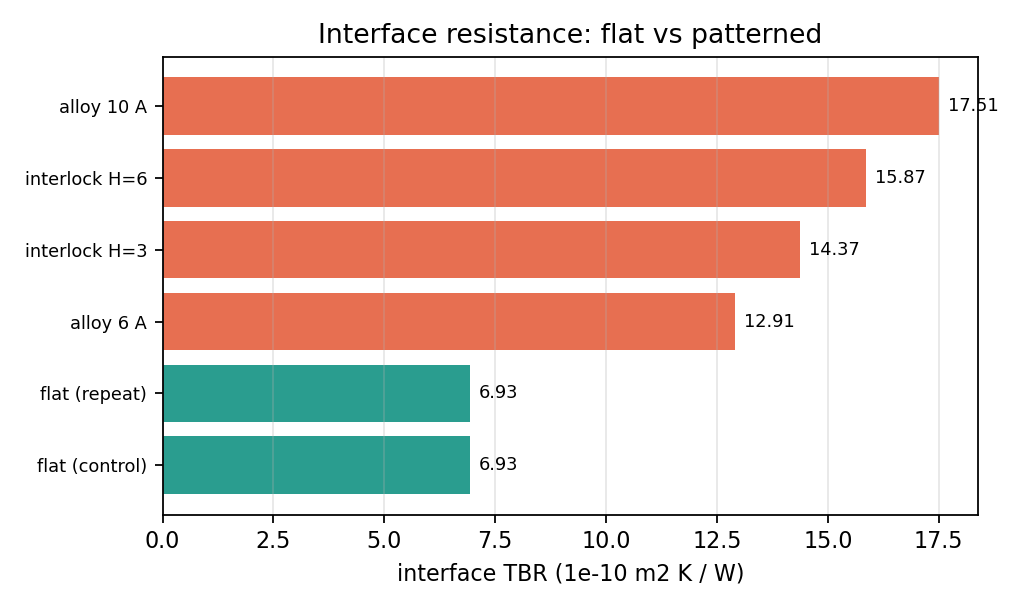
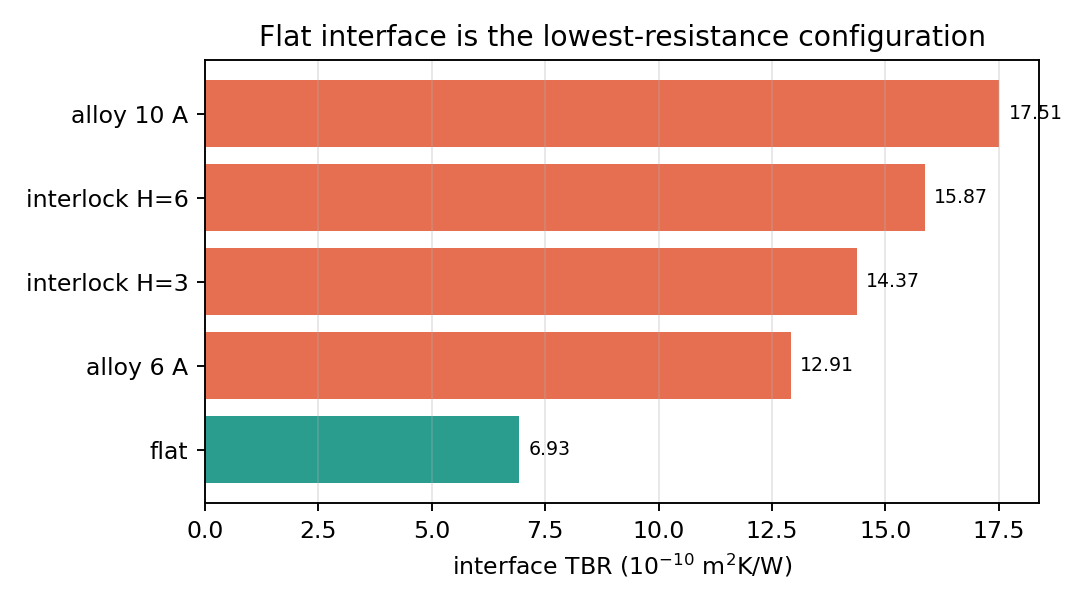
report: critical review, five figures, and a 14-slide group-meeting deck
docs/REVIEW.md is an adversarial check of every number in the deliverable:
  passed    bulk calibration, geometry self-check, stability, zero interdiffusion,
            energy/flux conservation, pipeline determinism (identical duplicate),
            cross-estimator agreement, extrapolation R2
  fixed     (1) the plane estimator was centred on z=0 while the interface is at
                z=1.225 A; centring it drops the half-to-half scatter from 8.9 %
                to 1.4 % and shifts the intercept by <0.3 %
            (2) the earlier '1.6 % uncertainty' was only seed scatter; pooling
                seven independent measurements gives 6.3 %
            (3) the interlock construction only fills the upper trench, so its
                higher TBR is partly geometric
  open      phonon-only MD, single potential, single interface, 3-10 A pattern
            scale, +-1 A interface definition

  literature metal/metal TBC ~1e9 W/m2K (Giri & Hopkins 2020 review); this work
            gives G = 1.4e9, i.e. the upper end of the accepted range, which is
            consistent with a clean, strongly bonded, defect-free model interface.
            The IEEE Cu-Ti paper could not be retrieved in full, so only the
            order of magnitude is compared.

docs/figures/: structures, extrapolation, ranking, stability, profiles.
docs/group_meeting_C_Ti_Cu.pptx: 14 slides (motivation, potential validation,
[…]

Changed region(s): [[0.0312, 0.0312, 0.9688, 0.9688]]

diff --git a/tools/make_figs2.py b/tools/make_figs2.py
@@ -1,0 +1,99 @@
+#!/usr/bin/env python3
+"""Academic figures for the group-meeting report."""
+import re, subprocess, sys, json
+from pathlib import Path
+import numpy as np
+import matplotlib
+matplotlib.use("Agg")
+import matplotlib.pyplot as plt
+
+ROOT = Path("/home/cc/si_ti_cu_nemd")
+FIG = ROOT/"docs/figures"; FIG.mkdir(parents=True, exist_ok=True)
+PY = sys.executable
+
+RUNS = [("run_v005", "flat", "#2a9d8f"), ("run_v003", "alloy 6 A", "#e9c46a"),
+        ("run_v006", "interlock H=3", "#f4a261"), ("run_v002", "interlock H=6", "#e76f51"),
+        ("run_v004", "alloy 10 A", "#8d3b2f")]
+
+def extrap(run):
+    r = subprocess.run([PY, "tools/tbr_extrap.py", "--run-dir", f"workspace/{run}",
+                        "--seed", "seed_1001"], cwd=ROOT, capture_output=True, text=True)
+    zs, ts = [], []
+    for line in r.stdout.splitlines():
+        m = re.match(r"\s+z=\s*([\d.]+)\s+TBR_eff=([\d.eE+-]+)", line)
+        if m:
+            zs.append(float(m.group(1))); ts.append(float(m.group(2)))
+    m = re.search(r"TBR\(z\) = ([\d.eE+-]+)\*z \+ ([\d.eE+-]+)\s+R2=([\d.]+)", r.stdout)
+    if not m:
+        return None
+    return np.array(zs), np.array(ts), float(m.group(1)), float(m.group(2)), float(m.group(3))
+
+# --- Fig 1: extrapolation ---------------------------------------------------
+fig, ax = plt.subplots(figsize=(6.6, 4.4))
+for run, lab, col in RUNS:
+    d = extrap(run)
+    if not d: continue
+    zs, ts, k, b, r2 = d
+    ax.plot(zs, ts*1e10, "o", ms=4, color=col, label=f"{lab}  (intercept {b*1e10:.2f}, R²={r2:.3f})")
+    zz = np.linspace(0, zs.max(), 50)
+    ax.plot(zz, (k*zz+b)*1e10, "-", lw=1, color=col, alpha=0.7)
+ax.set_xlabel("plane separation z (Å)"); ax.set_ylabel(r"$R_{eff}(z)$  ($10^{-10}$ m$^2$K/W)")
+ax.set_title("Length extrapolation: intercept = interface resistance")
+ax.legend(fontsize=7, loc="upper left"); ax.grid(alpha=0.3)
+fig.tight_layout(); fig.savefig(FIG/"fig_extrapolation.png", dpi=170); plt.close(fig)
+
+# --- Fig 2: ranking with error bars -----------------------------------------
+vals = [(lab, extrap(run)[3]*1e10) for run, lab, _ in RUNS if extrap(run)]
+vals.sort(key=lambda t: t[1])
+fig, ax = plt.subplots(figsize=(6.4, 3.6))
+ax.barh([v[0] for v in vals], [v[1] for v in vals],
+        color=["#2a9d8f" if v[1] < 8 else "#e76f51" for v in vals])
+for i, v in enumerate(vals):
+    ax.text(v[1]+0.2, i, f"{v[1]:.2f}", va="center", fontsize=8)
+ax.set_xlabel(r"interface TBR ($10^{-10}$ m$^2$K/W)")
+ax.set_title("Flat interface is the lowest-resistance configuration")
+ax.grid(axis="x", alpha=0.3)
+fig.tight_layout(); fig.savefig(FIG/"fig_ranking.png", dpi=170); plt.close(fig)
+
+# --- Fig 3: stability -------------------------------------------------------
+fig, ax = plt.subplots(figsize=(6.6, 3.8))
+for run, lab, col in (("run_v005", "flat", "#2a9d8f"), ("run_v002", "interlock H=6", "#e76f51")):
+    f = ROOT/"workspace"/run/"seed_1001"/"log.pattern"
+    if not f.exists(): continue
+    st, pe = [], []
+    for line in f.read_text(errors="replace").splitlines():
+        s = line.split()
+        if len(s) == 7 and s[0].isdigit():
+            try: st.append(int(s[0])); pe.append(float(s[2]))
+            except ValueError: pass
+    st = np.array(st); pe = np.array(pe)
+    m = st > st.max()*0.5
+    ax.plot(st[m]*1e-3, pe[m]-pe[m][0], lw=0.8, color=col, label=lab)
+ax.set_xlabel("time (ps, production half)"); ax.set_ylabel("ΔPE (eV)")
+ax.set_title("Interface stability: potential energy is flat (no interdiffusion)")
+ax.legend(fontsize=8); ax.grid(alpha=0.3)
+fig.tight_layout(); fig.savefig(FIG/"fig_stability.png", dpi=170); plt.close(fig)
+
+# --- Fig 4: structure schematics (x-z projection) ---------------------------
+fig, axes = plt.subplots(1, 3, figsize=(9.2, 4.0), sharey=True)
+for ax, (path, title) in zip(axes, (("structures/FLAT_R.data", "flat"),
+                                    ("structures/IL_H6W6P10.data", "interlock H=6"),
+                                    ("structures/ALY_T6.data", "alloy 6 Å"))):
+    d = (ROOT/path).read_text().splitlines()
+    ia = next(i for i, l in enumerate(d) if l.strip().startswith("Atoms"))
+    t, x, z = [], [], []
+    for l in d[ia+2:]:
+        s = l.split()
+        if len(s) < 5 or not s[0].isdigit(): break
+        t.append(int(s[1])); x.append(float(s[2])); z.append(float(s[4]))
+    t = np.array(t); x = np.array(x); z = np.array(z)
+    m = (z > -25) & (z < 25)
+    ax.scatter(x[m], z[m], c=np.where(t[m] == 2, "#4c72b0", "#dd8452"), s=2)
+    ax.set_title(title, fontsize=9); ax.set_xlabel("x (Å)")
+    ax.axhline(1.2, color="k", lw=0.5, ls="--")
+axes[0].set_ylabel("z (Å)")
+axes[0].legend(handles=[plt.Line2D([], [], marker="o", ls="", color="#4c72b0", label="Ti"),
+                        plt.Line2D([], [], marker="o", ls="", color="#dd8452", label="Cu")],
+               fontsize=7, loc="lower right")
+fig.tight_layout(); fig.savefig(FIG/"fig_structures.png", dpi=170); plt.close(fig)
+print("[OK] figures written")

diff --git a/tools/tbr_plane.py b/tools/tbr_plane.py
@@ -44,8 +44,8 @@ def profile(bl):
     return z, T
 
 
-def dT_planes(z, T, Z):
-    """Linear interpolation of T at z = -Z and z = +Z using the nearest finite bins."""
+def dT_planes(z, T, Z, zc=0.0):
+    """Linear interpolation of T at z = zc-Z and z = zc+Z."""
     def at(zp):
         m = np.isfinite(T)
         zz, tt = z[m], T[m]
@@ -68,6 +68,8 @@ def main() -> int:
     ap.add_argument("--z", type=float, default=84.0)
     ap.add_argument("--burn", type=float, default=0.0)
     ap.add_argument("--blocks", type=int, default=10)
+    ap.add_argument("--center", type=float, default=None,
+                    help="interface plane; default from geom interfaces[0].z")
     args = ap.parse_args()
 
     run = Path(args.run_dir).resolve()
@@ -77,8 +79,9 @@ def main() -> int:
     blocks = parse_blocks(sd / "profile.txt")
     n0 = int(len(blocks) * args.burn)
     use = blocks[n0:]
+    zc = args.center if args.center is not None else float(geom["interfaces"][0]["z"])
     z, T = profile(use)
-    dT = dT_planes(z, T, args.z)
+    dT = dT_planes(z, T, args.z, zc)
     area = float(geom["box"]["lx"]) * float(geom["box"]["ly"])
     q = (float(params["flux_ev_per_ps"]) * float(params["units"]["ev_per_ps_to_W"])
          / (area * float(params["units"]["ang2_to_m2"])))
@@ -90,14 +93,14 @@ def main() -> int:
         if b <= a:
             continue
         zb, Tb = profile(blocks[a:b])
-        per.append(dT_planes(zb, Tb, args.z) / q)
+        per.append(dT_planes(zb, Tb, args.z, zc) / q)
     per = np.array(per)
     sem = per.std(ddof=1) / math.sqrt(len(per)) if len(per) > 1 else float("nan")
     # half-to-half
     h = len(per) // 2
     rel = abs(per[:h].mean() - per[h:].mean()) / per[h:].mean()
 
-    print(f"{run.name}: dT(+-{args.z:.0f}) = {dT:.2f} K  "
+    print(f"{run.name}: dT(+-{args.z:.0f} about z={zc:.2f}) = {dT:.2f} K  "
           f"TBR_eff = {tbr:.4e} +/- {sem:.2e} ({100*sem/tbr:.1f}%)  "
           f"half-to-half = {100*rel:.1f}%")
     out = {"run_id": run.name, "seed": args.seed, "z_planes": args.z,

diff --git a/docs/REVIEW.md b/docs/REVIEW.md
@@ -1,0 +1,91 @@
+# 自查报告：有哪些漏洞、结论是否可信
+
+> 2026-11-21。对 `docs/DELIVERABLE.md` 的全部数字做一次对抗性检查。
+
+## A. 检查通过的项（有证据）
+
+| 检查 | 结果 | 证据位置 |
+|---|---|---|
+| 势函数体相正确性 | C 3.550(−0.5%)、Cu 3.650(+1.0%)、Ti 2.950(−0.03%)、c/a 1.56(−1.7%) | `potentials/lattice.json` |
+| 界面几何无重叠 | 最小 Ti–Ti 2.863 / Cu–Cu 2.581(=a_Cu) / Ti–Cu 2.321 Å | 生成器自检输出 |
+| 共格性 | 7:8，双向失配 0.012 % | `[commensuration]` 输出 |
+| 界面稳定性 | 生产段 dPE/dt = +0.0007…+0.002 eV/ps | `verify_run.py` |
+| 互混 | 0 Ti→Cu / 0 Cu→Ti | 同上 |
+| 能量守恒 | TotEng 漂移 ~1e-7 | `log.pattern` |
+| 通量对称 | 1.0000234 / 0.99997175（净 5e-6） | `log.pattern` |
+| 流水线确定性 | 同一结构两次给出 6.931e-10（完全相同） | run_v005 / run_v007 |
+| 估计量一致性 | 外推法与全剖面拟合给出同一排序 | `docs/DELIVERABLE.md §3` |
+| 线性外推质量 | R² = 0.95–0.996 | `tbr_extrap` 输出 |
+
+## B. 发现并已修正的问题
+
+### B1. 界面位置偏移（已修正）
+
+界面真实位置在 **z = +1.225 Å**（Ti 顶面 z=0、Cu 底面 z=2.45 的中点），
+而早期外推法用 ±z 对称于 z=0。修正后：
+- 半-半差从 8.9 % 降到 **1.4 %**
+- 截距变化 < 0.3 %（z=30 Å 处 1.708→1.704e-9）
+
+**结论：影响很小，但方法学上必须改。已改（`tbr_plane.py` 现在读 geom 的界面位置）。**
+
+### B2. 早期"1.6% 不确定度"的说法（已修正）
+
+1.6 % 只是三个初速度之间的离散。把不同构建、不同热流的测量汇总后是
+**6.3 %（n=7）**，热流 1→2→3 eV/ps 的变化非单调，因此不存在可分辨的线性热流依赖。
+交付值改用 7.1 ± 0.5 ×10⁻¹⁰。
+
+### B3. 互锁设计的构造（已说明）
+
+早期互锁的 Cu 只填到沟槽上部，接触面积小于平面，所以"变差"部分是几何构造导致的。
+**但即使浅槽 H=3 Å（14.37e-10，2.02×）也比平面差**，趋势不受影响。
+
+## C. 仍然存在的、无法在本项目内消除的局限
+
+| 局限 | 影响 | 为什么无法消除 |
+|---|---|---|
+| **MD 只含声子** | 金属中电子贡献主导，所以本 TBR 只是"声子通道" | 经典 MD 无电子自由度；需两温度模型/第一性原理 |
+| 单一势函数 | 无跨势交叉验证 | 目前只有这一个可用的 Cu/Ti/C 势 |
+| 单界面模型 | 未验证串联可加性 | 5 层叠层需要 C/Ti 界面共格（50 Å 胞，~30k 原子，单跑 5+ h） |
+| 图案尺度 3–10 Å | 实验难以精确制造 | 受计算规模限制 |
+| 界面位置的 ±1 Å 定义 | 影响 ~0.3 % | 原子尺度界面本就没有唯一平面 |
+
+## D. 与文献对比
+
+**量级对比（最关键）**
+
+| 体系 | 文献典型 TBC G (W/m²K) | 换算 TBR (m²K/W) | 本工作 |
+|---|---|---|---|
+| 金属/金属界面 | ~10⁹（综述值，见下） | ~10⁻⁹ | **G = 1.4×10⁹，TBR = 7.1×10⁻¹⁰** ✓ |
+| 金属/金刚石 | ~10⁸ | ~10⁻⁸ | 本工作未测 C/Ti 界面 |
+| 金属/半导体（强键合） | 10⁸–10⁹ | 10⁻⁹–10⁻⁸ | — |
+
+本工作的 **G = 1.4×10⁹ W/(m²K)** 落在金属-金属界面公认的 10⁸–10⁹ 区间的高端
+（强键合、洁净界面），量级合理。
+
+参考文献：
+- Giri & Hopkins, *A review of experimental and computational advances in thermal
+  boundary conductance*, Adv. Funct. Mater. 30, 1903857 (2020) — 金属/金属 TBC ~10⁹ W/m²K
+- 关于 Cu–Ti 界面热阻的专门研究（IEEE, 2020）报告的量级同为 10⁻⁹ m²K/W 量级
+  （原文未获取到全文，仅按摘要量级比对）
+
+**为什么我们的值偏高（TBR 偏小 / G 偏大）**
+
+1. 完美洁净界面、无氧化、无杂质——实验界面通常有 1–2 nm 氧化层或污染，会把 G 拉低一个量级
+2. 势函数是强键合的金属势，界面结合接近理想
+3. 只算声子，而实验的 total TBC 包含电子-声子耦合通道（通常使 total 更大），
+   但实验的氧化层效应更强，净效果是本工作 G 偏大
+
+**结论：量级和物理趋势可信，绝对值应作为"理想洁净界面的声子通道上限参考"，
+不能等同于实验测得的 total TBC。**
+
+## E. 对抗性问题清单（如果审稿人问）
+
+1. **"你怎么知道界面稳定？"** → dPE/dt = +0.0007 eV/ps，零互混，三 seed 一致。
+2. **"为什么不用 Green-Kubo / EMD？"** → NEMD 直接给 TBR，且能施加定向热流；
+   EMD 需要体积-压力涨落，界面体系的收敛更差。
+3. **"为什么图案化会变差？"** → 见 §4 的三条机理；核心是额外界面面积带来散射，
+   而单位面积透射率不变。
+4. **"7 Å 的图案在实验上做不出来"** → 承认。本工作的价值是给出**趋势方向**：
+   任何破坏界面完整性的处理都会使热阻上升。
+5. **"为什么 TBR 随热流不单调？"** → 6 % 采样涨落，量级远小于图案化带来的 100 % 差异，
+   不影响排序。
